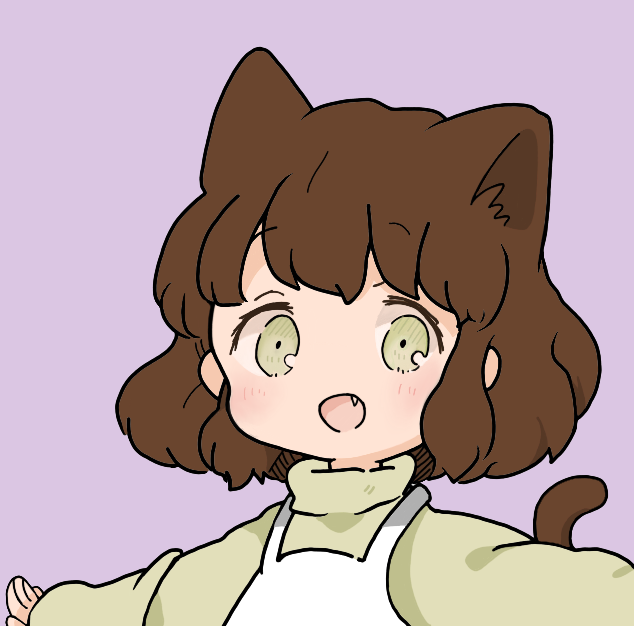
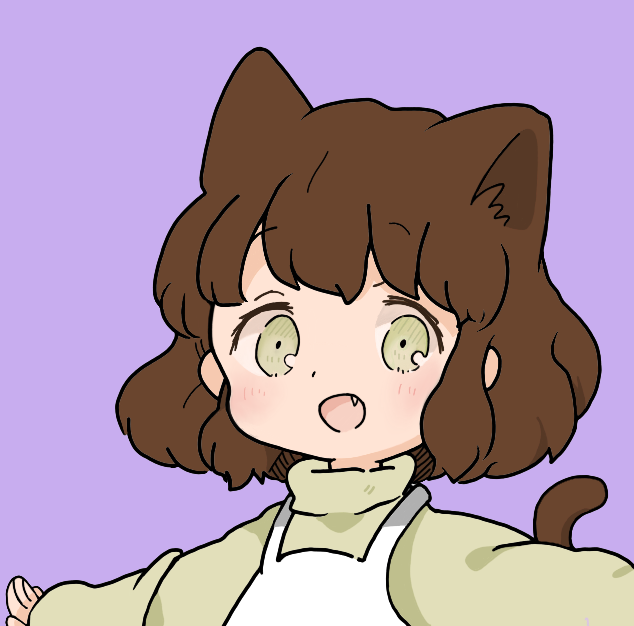
debugginproblem1

diff --git a/myysite.html b/myysite.html
@@ -13,7 +13,7 @@
     <body>
         <table>
             <tr>
-                <td><img src="images/catgirlovalpurple.png" alt="nil's profile pic"></td>
+                <td><img src="images/catgirloval.png" alt="nil's profile pic"></td>
                 <td><h1>NİLSU DEMİRAĞ</h1>
                     <p><em>im a beginner and im a student of <strong>computer engineering</strong></em></p>
                     <p>i love cats and writing my diary but it is sometimes very sorrowful.</p></td>
@@ -54,10 +54,10 @@
         <table cellspacing="10">
             <thead>
                 <tr>
-                    <td>html</td>    <td>★★☆☆☆</td>    <td>painting</td>    <td>★★★☆☆</td>
+                    <td>html</td>    <td>★★★☆☆</td>    <td>painting</td>    <td>★★★☆☆</td>
                 </tr>
                 <tr>
-                    <td>css</td>    <td>☆☆☆☆☆</td>    <td>photography</td>    <td>★☆☆☆☆</td>
+                    <td>css</td>    <td>★☆☆☆☆</td>    <td>photography</td>    <td>★☆☆☆☆</td>
                 </tr>
                 <tr>
                     <td>javascript</td>    <td>☆☆☆☆☆</td>    <td>learning</td>    <td>★★★★★</td>

diff --git a/css/style.css b/css/style.css
@@ -1,5 +1,5 @@
 body {
-    background-color: #E2DFBA;
+    background-color: #d9e3cf;
 }
 
 hr {
